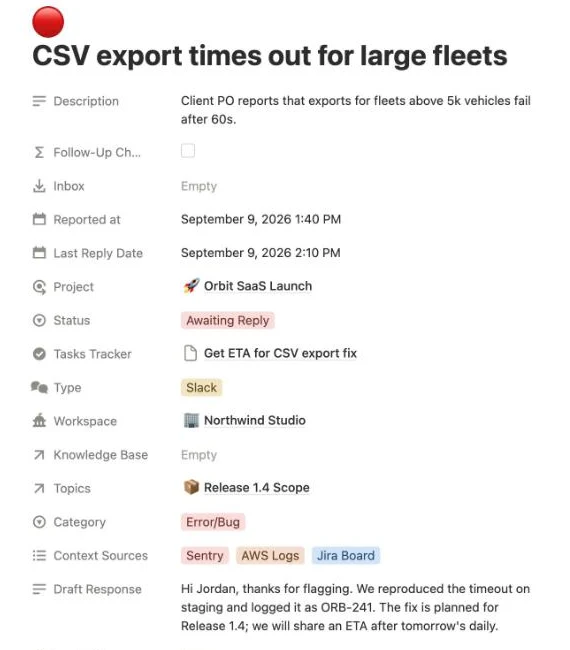
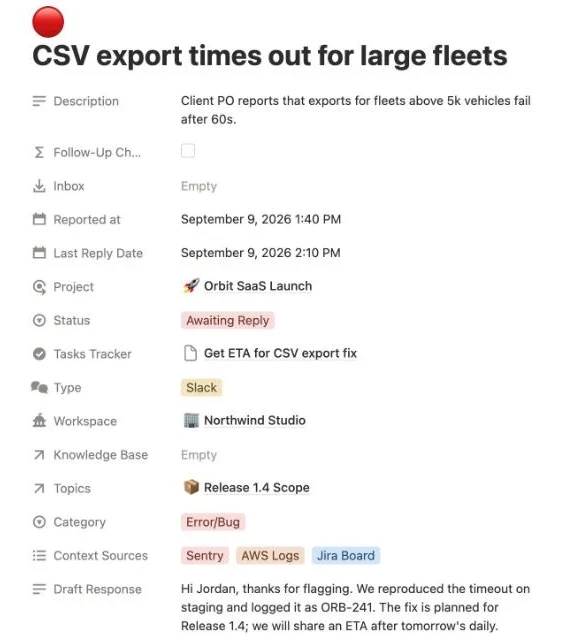
Home: screenshots in equal-height frames, captions aligned
Claude-Session: https://claude.ai/code/session_01AyXHabpVdM5WQMoETAKPDS

diff --git a/src/styles/global.css b/src/styles/global.css
@@ -310,7 +310,8 @@ a.card:hover { border-color: var(--accent); color: var(--text); }
 .skill__meta .out { color: var(--text-2); }
 
 /* Screens */
-.shot { margin: 0; border: 1px solid var(--line-strong); background: var(--surface); }
+.shot { margin: 0; border: 1px solid var(--line-strong); background: var(--surface); display: flex; flex-direction: column; }
+.shot__img { flex: 1; background: #fff; }
 .shot figcaption { padding: 12px 16px; font-size: 14px; color: var(--text-3); border-top: 1px solid var(--line-strong); }
 .prose .card h3, .prose .card .card__title { margin-top: 0; }
 @media (max-width: 480px) { .gh { display: none; } .brand { font-size: 15px; } .nav { gap: 8px 12px; } }
@@ -442,10 +443,11 @@ html[data-theme='dark'] .theme-btn .i-moon { display: none; }
 
 /* Real screenshots of the public template */
 .shots { display: grid; grid-template-columns: repeat(auto-fit, minmax(min(320px, 100%), 1fr)); gap: 24px; }
-.shot { margin: 0; border: 1px solid var(--line-strong); background: var(--surface); }
+.shot { margin: 0; border: 1px solid var(--line-strong); background: var(--surface); display: flex; flex-direction: column; }
+.shot__img { flex: 1; background: #fff; }
 .shot__bar { display: flex; align-items: center; gap: 6px; padding: 9px 12px; border-bottom: 1px solid var(--line); font-family: var(--mono); font-size: 11px; color: var(--text-3); overflow: hidden; white-space: nowrap; text-overflow: ellipsis; }
 .shot__bar i { width: 9px; height: 9px; border-radius: 50%; background: var(--line-strong); flex: none; }
 .shot__bar span { margin-left: 6px; overflow: hidden; text-overflow: ellipsis; }
 .shot img { display: block; width: 100%; height: auto; background: #fff; }
-.shot figcaption { padding: 12px 14px; font-size: 14px; line-height: 1.5; color: var(--text-2); border-top: 1px solid var(--line); }
+.shot figcaption { min-height: 5.4em; box-sizing: border-box; padding: 12px 14px; font-size: 14px; line-height: 1.5; color: var(--text-2); border-top: 1px solid var(--line); }
 .shot figcaption b { color: var(--text); font-weight: 600; }
